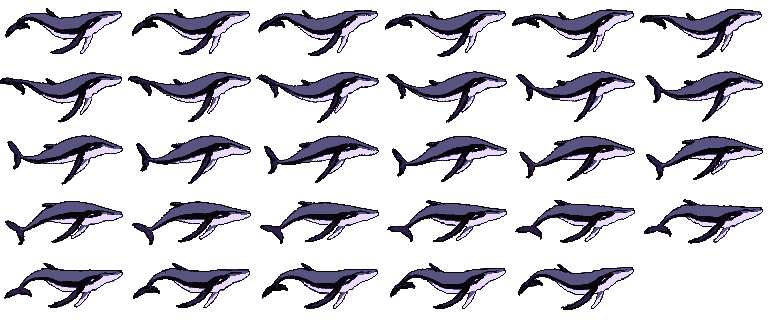
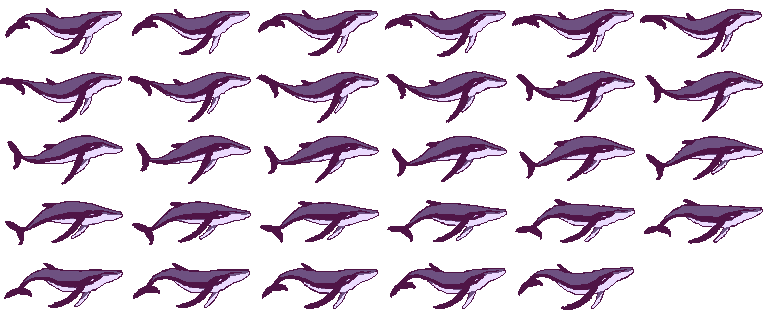
asset progress

diff --git a/src/classes/Player.ts b/src/classes/Player.ts
@@ -10,7 +10,7 @@ import { UNIT } from '@/scenes/GameScene'
 import { createSpriteAnimation } from '@/utils'
 
 export default class Player extends Phaser.GameObjects.Container {
-  public sprite: GameObjects.Sprite // GameObjects.Image
+  public sprite: GameObjects.Sprite|GameObjects.Image
   public scene: GameScene
   private controls: GameControls
   private store = useGameStore()
@@ -55,19 +55,19 @@ export default class Player extends Phaser.GameObjects.Container {
     this.add(this.beam.sprite)
 
     // Create the player sprite after so it renders on top
-    // this.sprite = scene.add.image(0, 0, 'player').setScale(UNIT)
-    this.sprite = this.scene.add.sprite(0, 0, 'player/idle').setScale(scaleSprite)
+    this.sprite = scene.add.image(0, 0, 'playerImage').setScale(UNIT)
+    // this.sprite = this.scene.add.sprite(0, 0, 'player/idle').setScale(scaleSprite)
     this.add(this.sprite)
 
-    this.scene.anims.create({
-      key: 'player-idle',
-      frames: this.scene.anims.generateFrameNames('player/idle', { start: 0, end: 28 }),
-      frameRate: 8,
-      repeat: -1
-    })
+    // this.scene.anims.create({
+    //   key: 'player-idle',
+    //   frames: this.scene.anims.generateFrameNames('player/idle', { start: 0, end: 28 }),
+    //   frameRate: 24,
+    //   repeat: -1
+    // })
     // createSpriteAnimation(this.scene.anims, 'player-idle', 'player/idle')
 
-    this.sprite.anims.play('player-idle')
+    // this.sprite.anims.play('player-idle')
 
     // Add container to scene
     scene.add.existing(this)

diff --git a/src/scenes/PreloaderScene.ts b/src/scenes/PreloaderScene.ts
@@ -17,7 +17,7 @@ export default class PreloaderScene extends Scene {
 
   preload () {
     this.load.setPath('assets')
-    // this.load.image('player', 'whale.png')
+    this.load.image('playerImage', 'whale.png')
     this.load.image('blackhole', 'blackhole.png')
 
     this.load.image('background/stars', 'background/stars.png')
